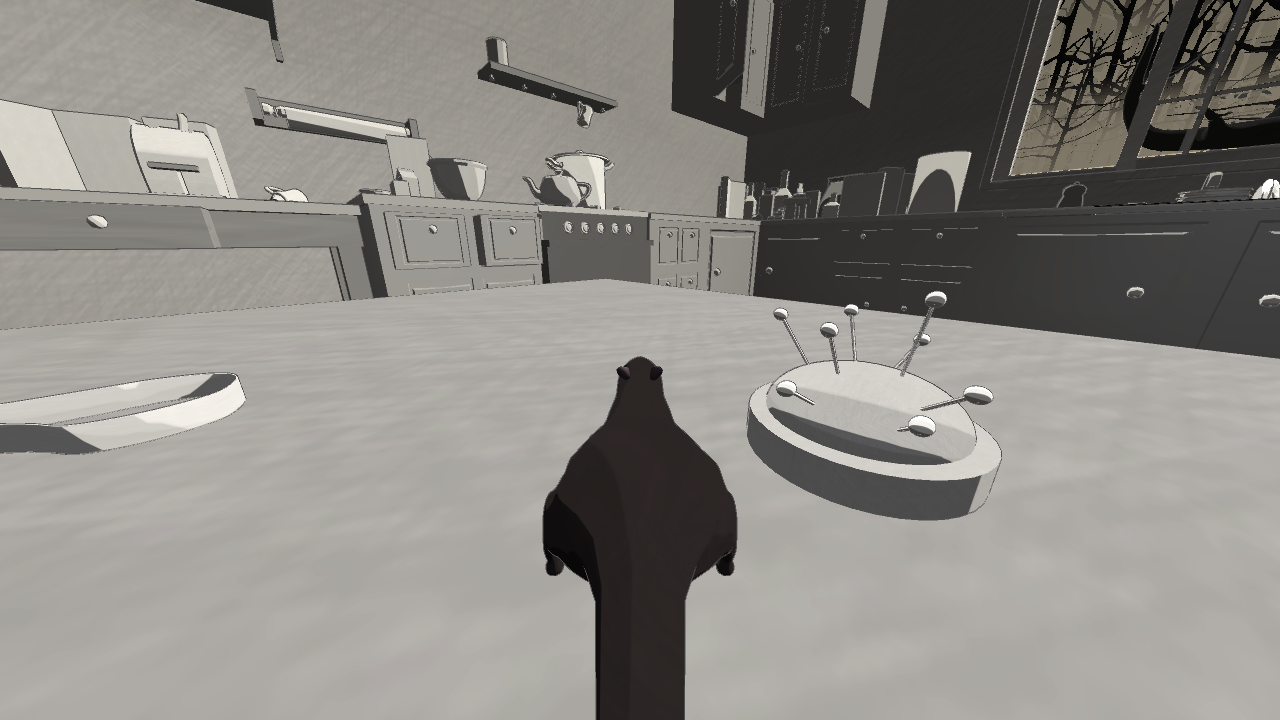
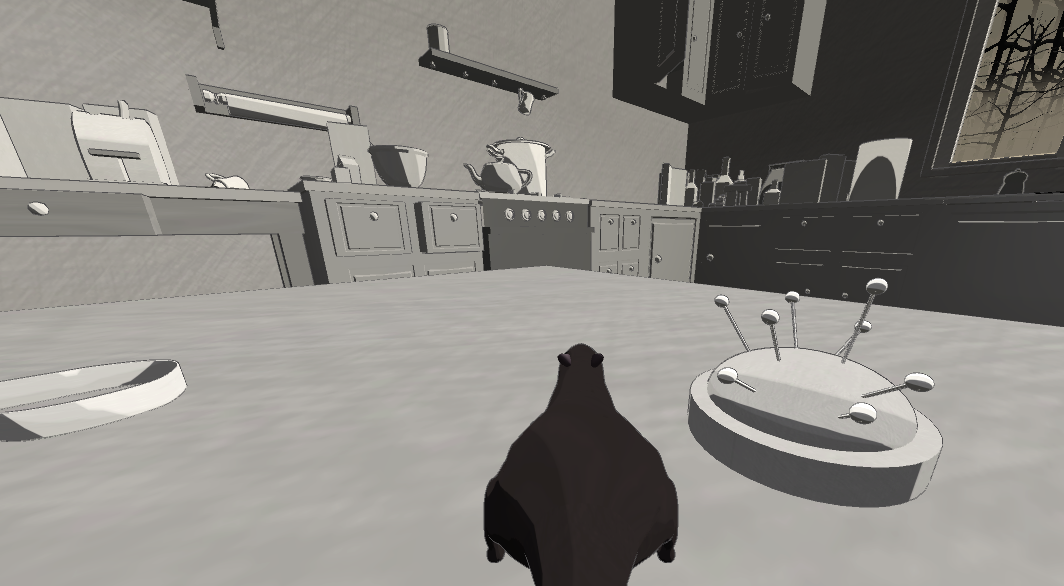
Edited the Legends images and text.

diff --git a/pages/legends.html b/pages/legends.html
@@ -44,7 +44,7 @@
 						<h2>Legends of the Outlands</h2>
 						<hr class="star-primary">
 						<img src="../img/portfolio/Legends/Legends - 01.png" class="img-responsive img-centered" alt="">
-						<p>Legends of the Outlands was an ambitious project led by Leiah Fournier in the <a href="http://gamkedo.com/club/">Gamkedo club</a>.  It is a networked co-op puzzle adventure game with a pair of rats as the protagonists, following them on their journey into the outside world after all humans disappear.  I provided various kitchen object models including the toaster and weighing scales.  This was the first project I contributed a significant amount of 3D art to.</p>
+						<p>Legends of the Outlands was an ambitious project led by Leiah Fournier in the <a href="http://gamkedo.com/club/">Gamkedo club</a>.  It is a networked co-op puzzle adventure game with a pair of rats as the protagonists, following them on their journey into the outside world after all humans disappear.  I provided various kitchen object models including the toaster, weighing scales, pin cushion, milk jug, paper towel holder and window latch.  This was the first project I contributed a significant amount of 3D art to.</p>
 						<ul class="list-inline item-details">
 							<li>Play at:
 								<strong><a href="http://gamkedo.com/club/#games">Gamkedo</a>

diff --git a/pages/singed-dirt.html b/pages/singed-dirt.html
@@ -63,9 +63,9 @@
 							</li>
 						</ul>
 						<video class="videoInsert" controls>
-							  <source src="../img/portfolio/Singed dirt/singed dirt unlimited mode.mp4" type="video/mp4">
+							  <source src="../img/portfolio/Singed dirt/Singed dirt unlimited mode.mp4" type="video/mp4">
 							  Your browser does not support the video tag.
-							</video>
+						</video>
 						<img src="../img/portfolio/Placeholder icon.png" class="img-responsive img-centered" alt="">
 						<a class="btn btn-default" href="../index.html"><i class="fa fa-times"></i> Home</a>
 						<a class="btn btn-default" href="#" onClick="history.go(-1);return true;"><i class="fa fa-times"></i> Back</a>
